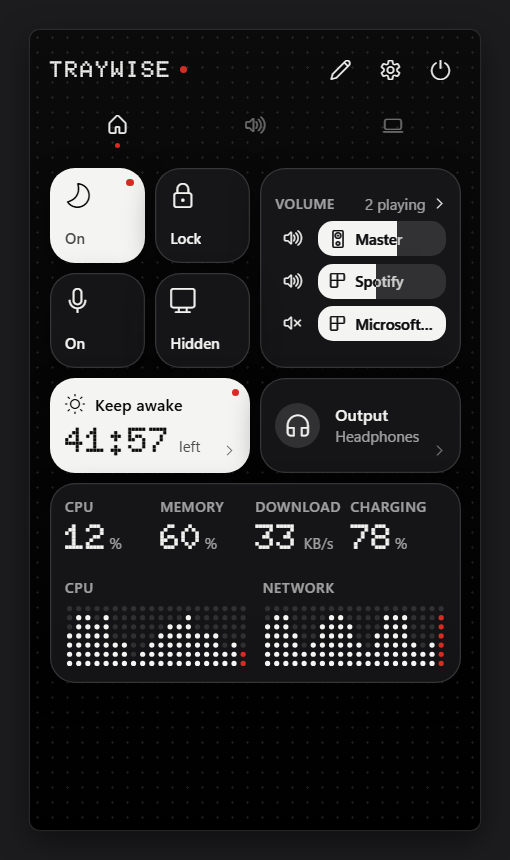
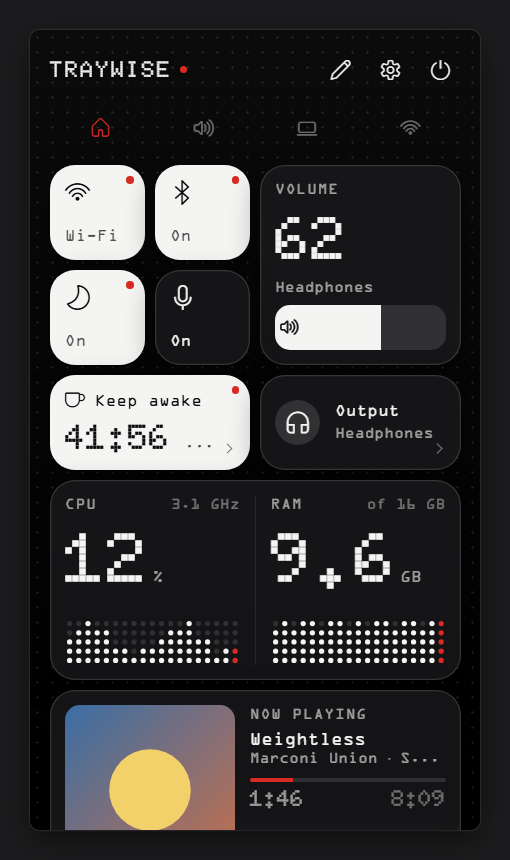
Release 0.2.0: version, CHANGELOG, README screenshots

diff --git a/CHANGELOG.md b/CHANGELOG.md
@@ -1,7 +1,8 @@
 # Changelog
 
-## Unreleased
+## 0.2.0 (2026-10-30)
 
+- **Settings and Modules pages redesigned**: grouped cards of tidy rows, each with a line on what it does. The microphones' shortcut moved to the Audio devices page.
 - **Open the panel from the right edge of the screen**: rest the mouse on the middle of the edge and it slides in, then closes when you move away. Optional small handle. Turn it on in Settings › Opening.
 - **Transparent glass adjusts to what's behind it**: more solid over dark wallpapers, lighter over bright ones. As the panel opens, Traywise measures only the brightness behind it (an 8 × 8 sample, deleted at once).
 - Now playing shows a browser's own icon instead of the video's frame, and a music note when there's no picture.
